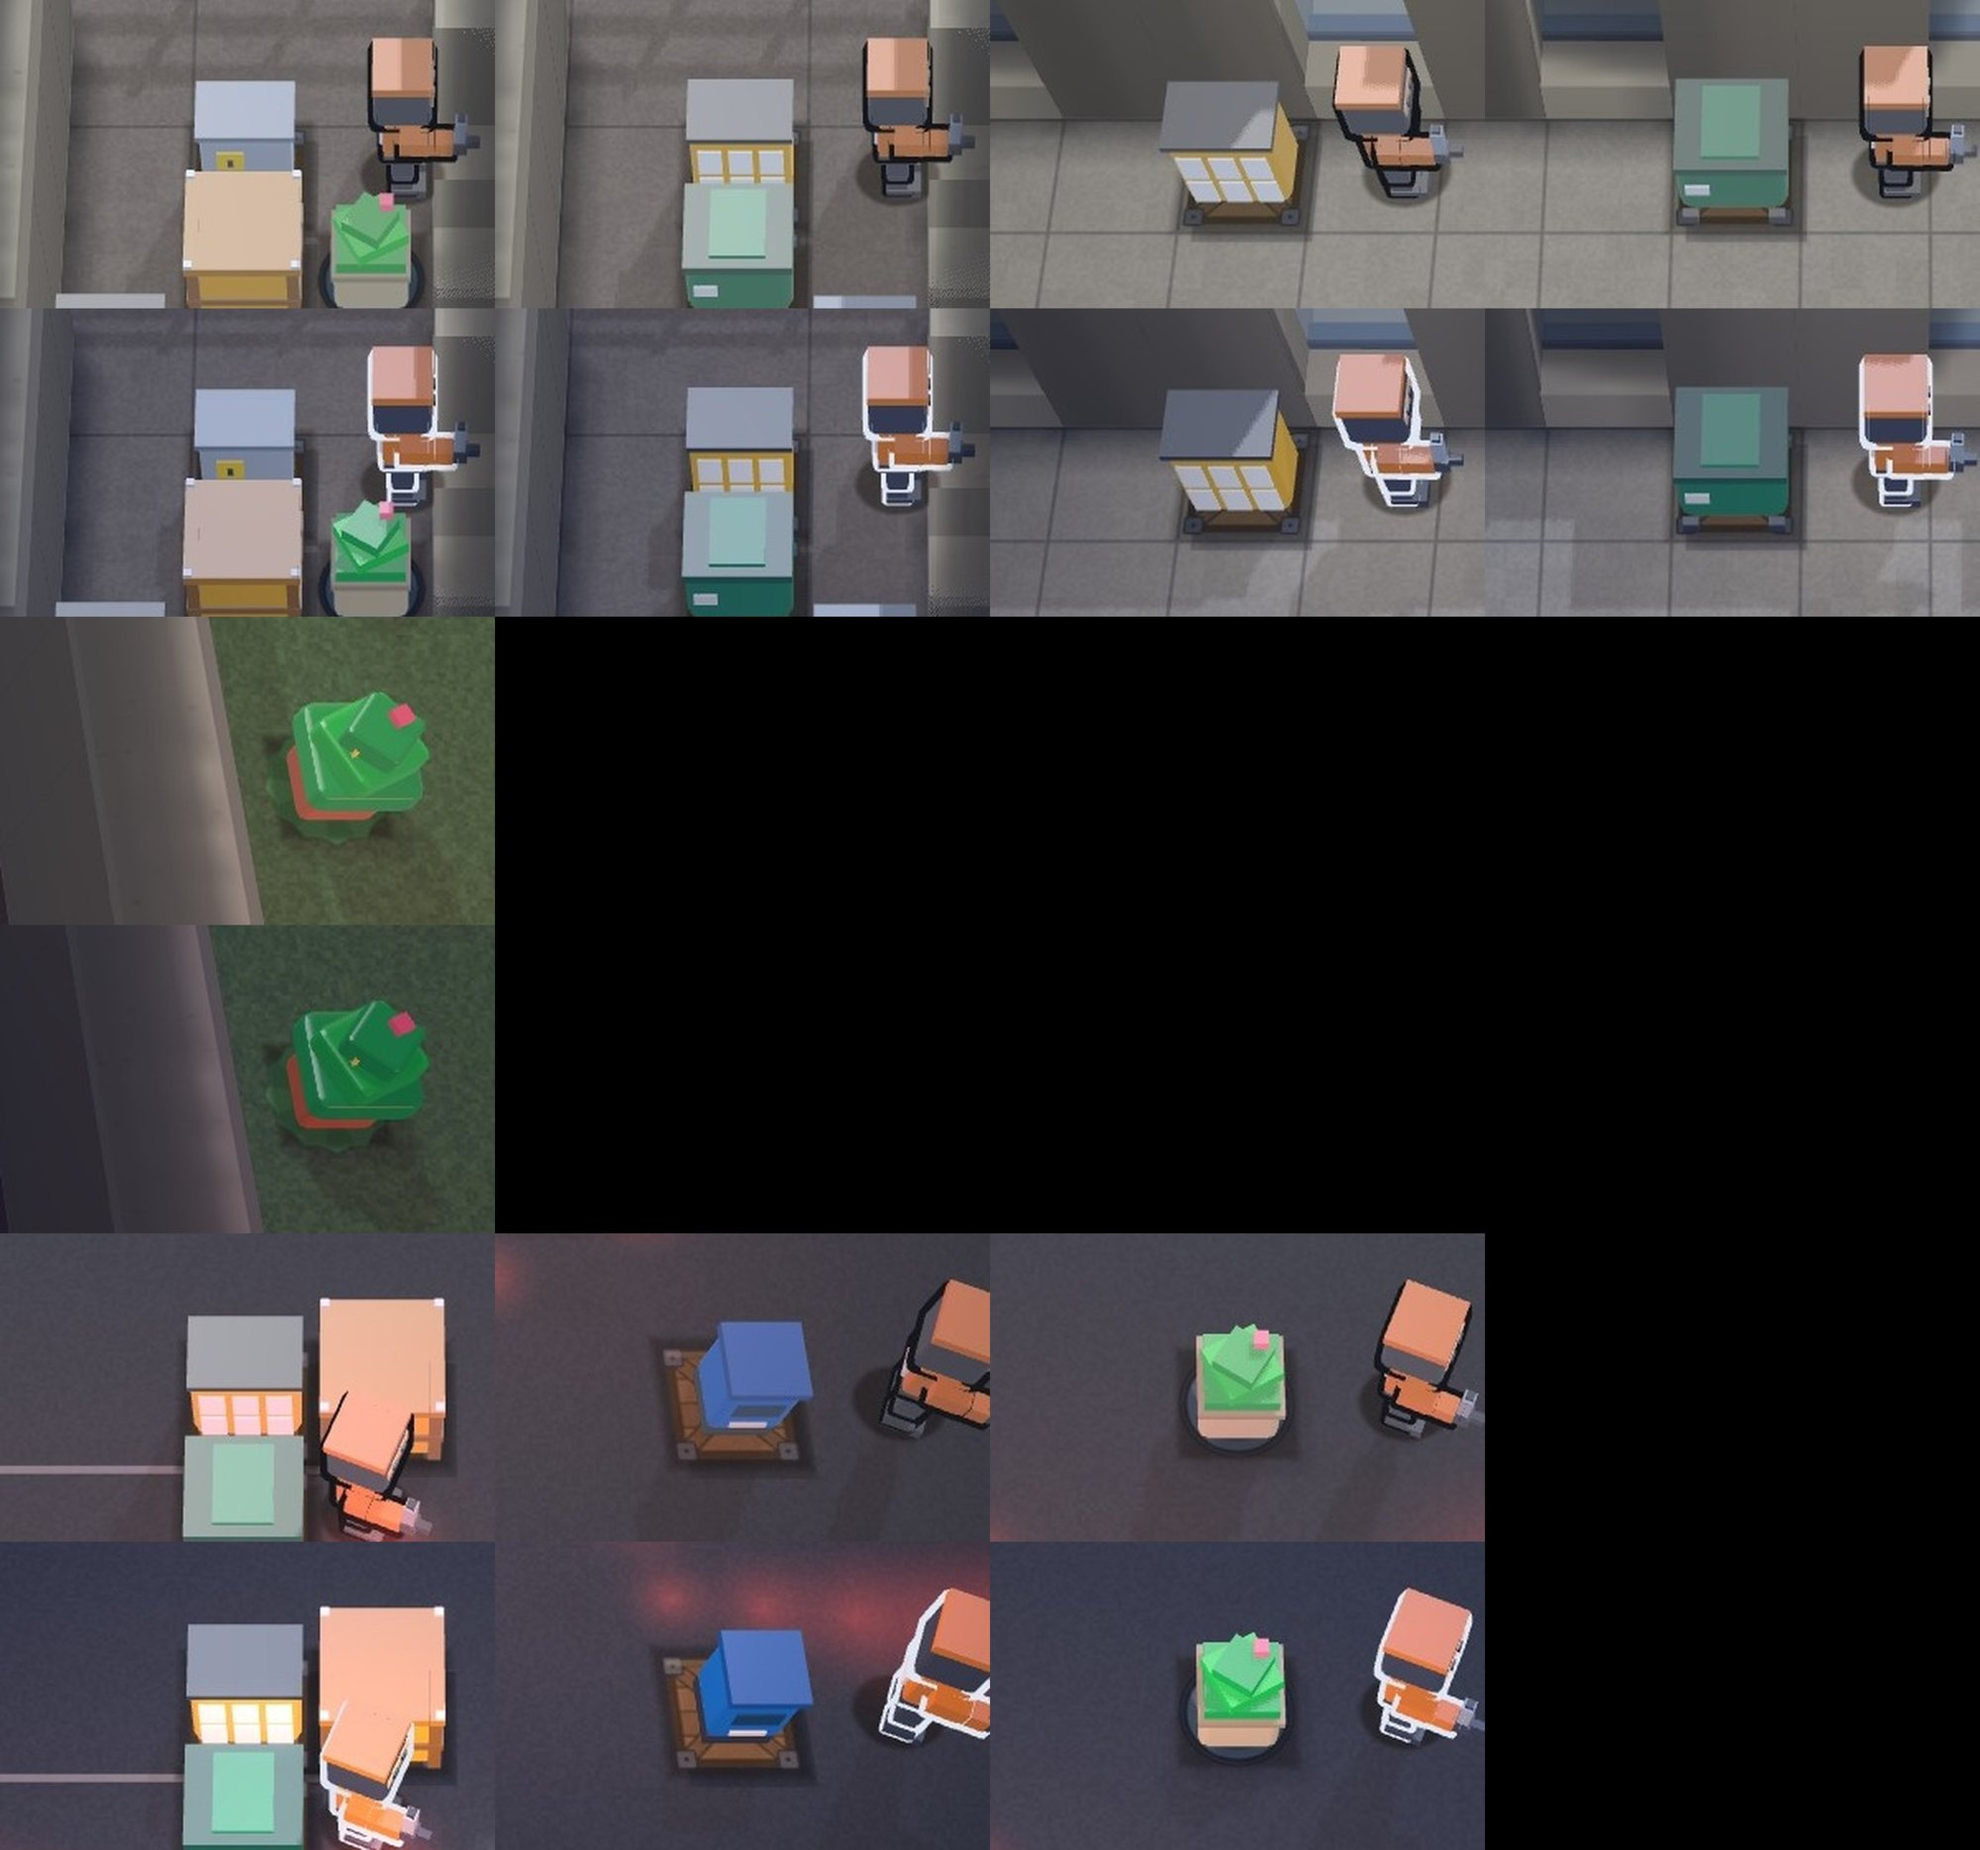
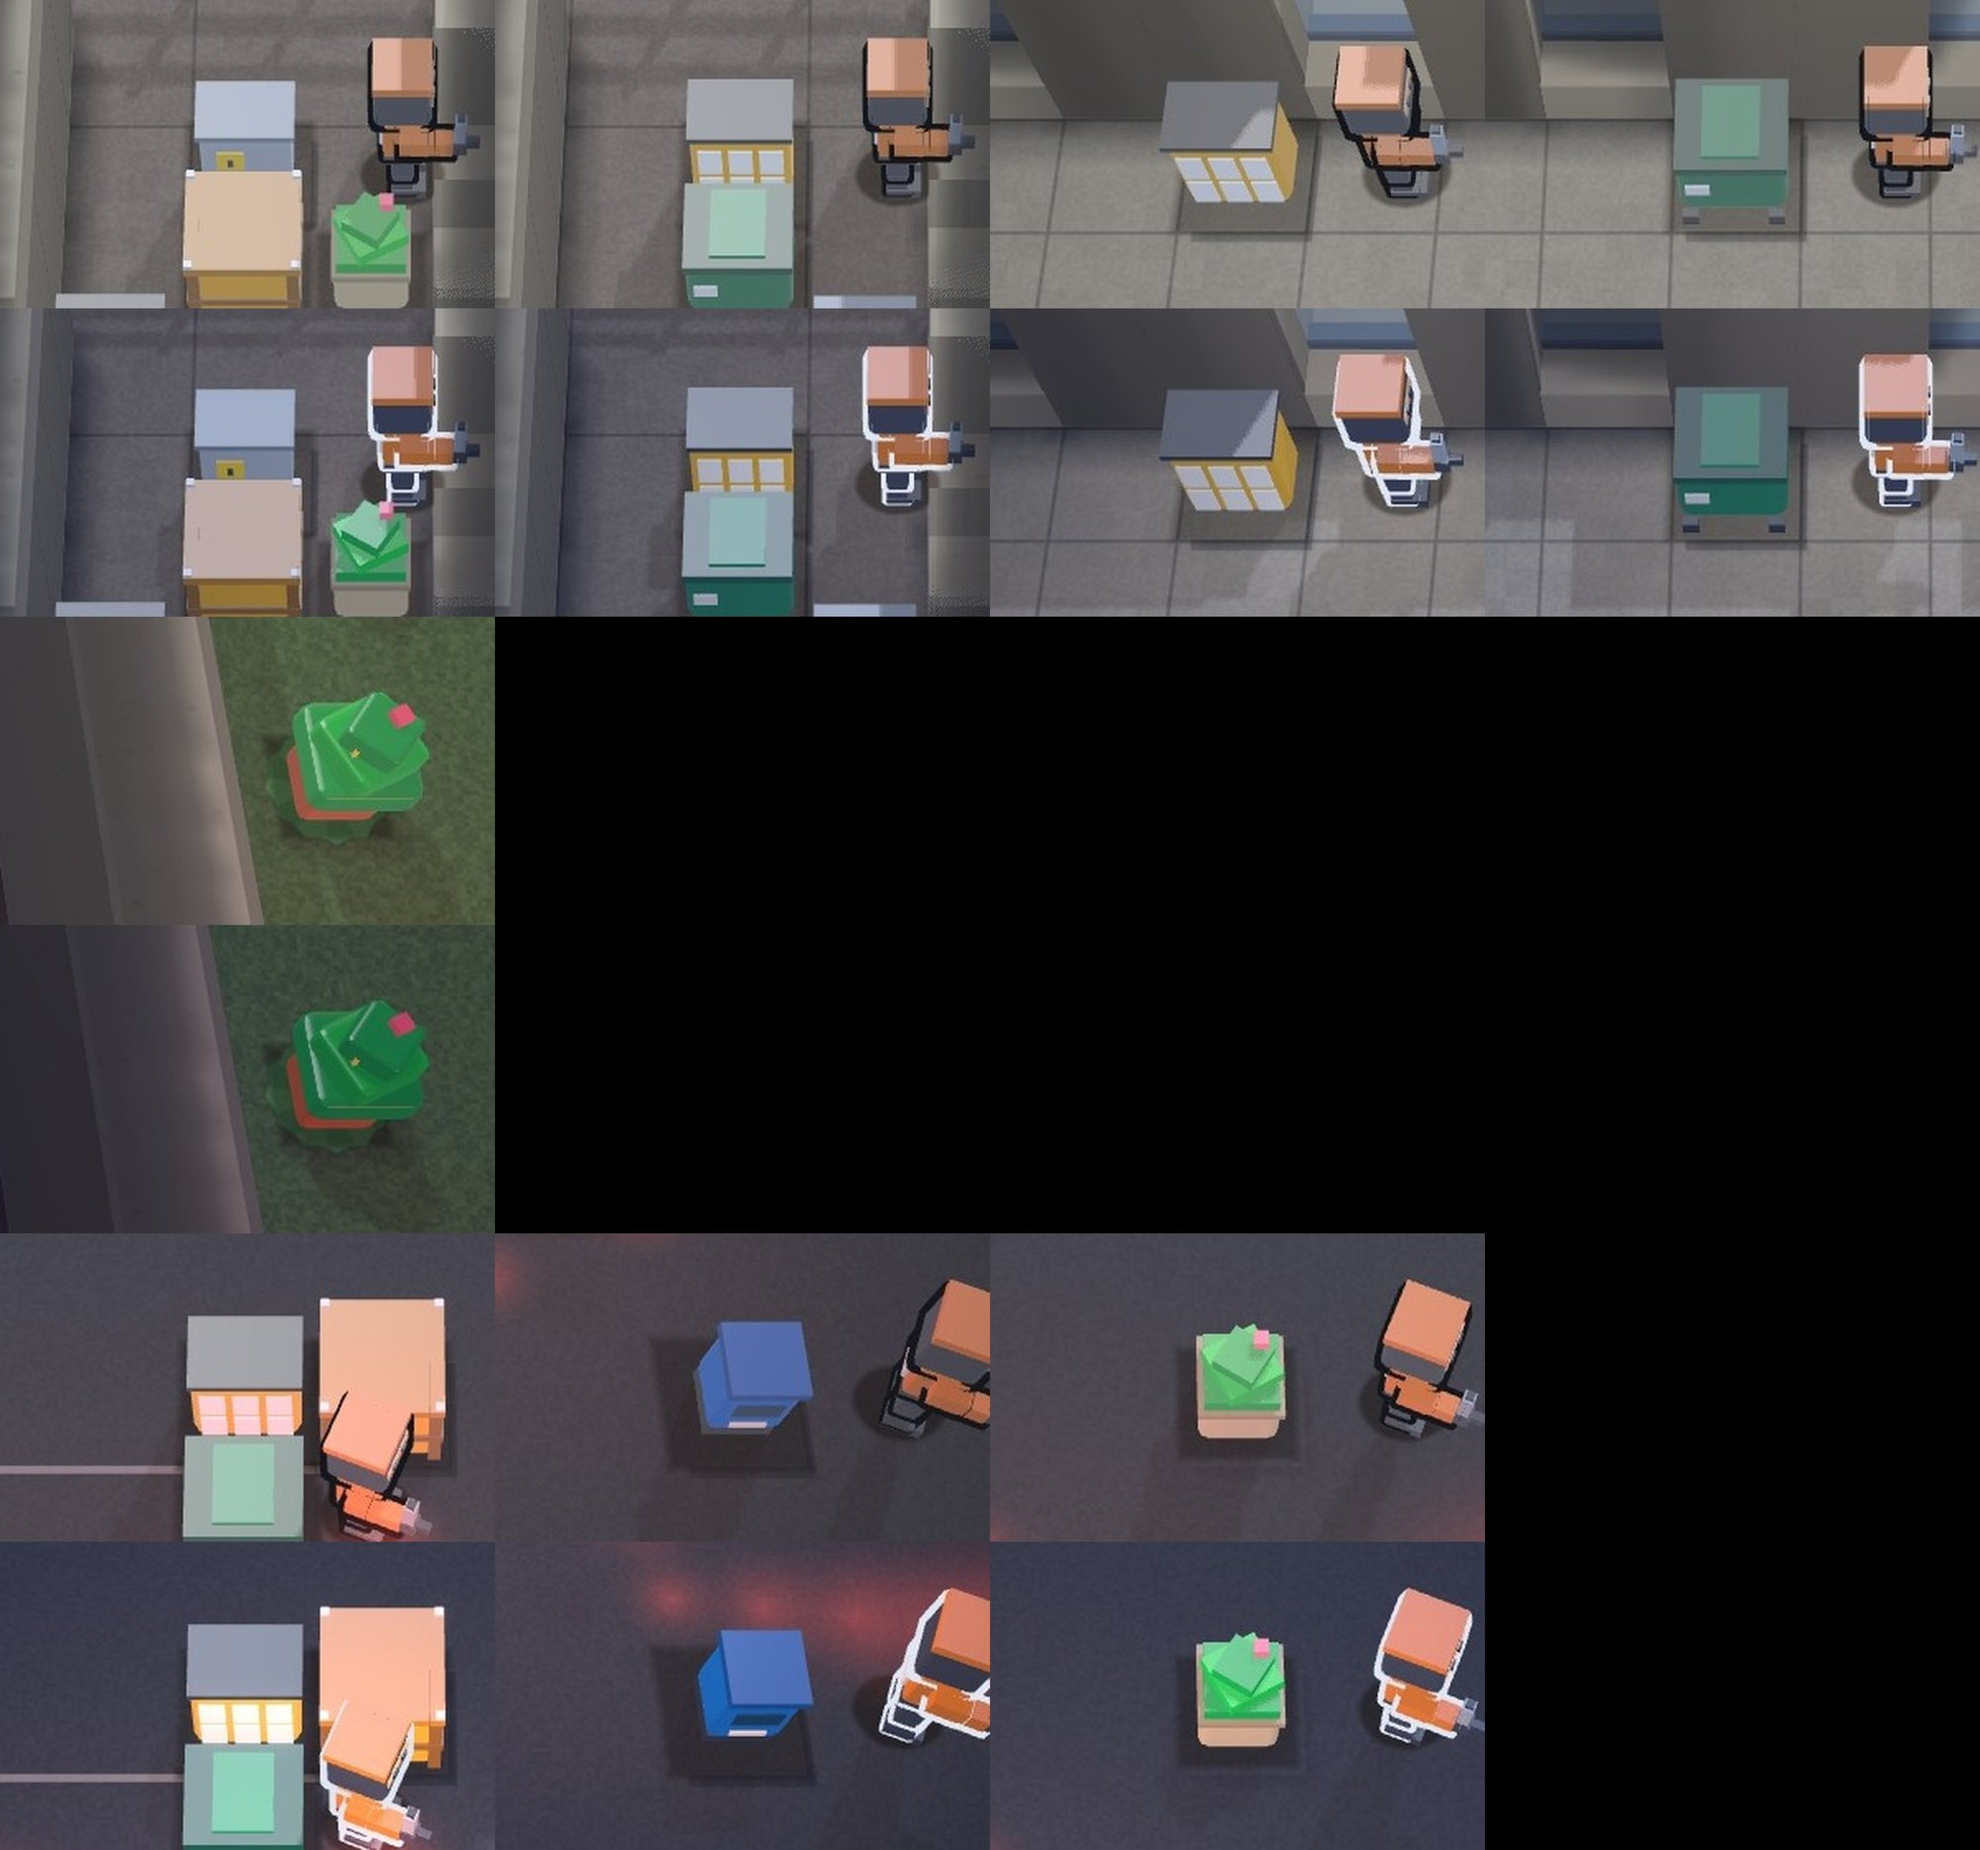
Straßenmöbel: alte Kiste und altes Fass aus der Objektebene auf der Bodenkopie übermalt (kein brauner Rahmen mehr) (#229)
Claude-Session: https://claude.ai/code/session_01M9qApXZL2az9absRxv6RKY

diff --git a/js/view3d.js b/js/view3d.js
@@ -282,7 +282,13 @@ export function mkView3d(X) {
   const box = new THREE.BoxGeometry(1, 1, 1);
 
   let ground = null, curLay = null, curSt = null, gridKey = '', rev = -1, stat = [], cells = {}, grl = new Set();
-  function refreshGround() { groundG.clearRect(0, 0, groundCv.width, groundCv.height); groundG.drawImage(X.st, 0, 0); groundG.drawImage(X.so, 0, 0); groundTex.needsUpdate = true; st.groundUp++ }
+  // Klotz-Stil (Ticket 229): Kisten und Faesser (k, q) zeichnet die Objektebene X.so der Karte als 2D-Bild auf den Boden. Die Strassenmoebel (kl-dinge-bank.js) ersetzen sie mit anderer Grundflaeche, darum schien die alte Kiste
+  // (brauner Rahmen mit Eckbeschlaegen) darunter durch. Auf der Bodenkopie wird die Kachel aus der statischen Ebene X.st neu gemalt (Boden ohne Objekt). 2D (X.st, X.so) bleibt unveraendert.
+  function hideStreetProps() {
+    if (!K || !K.on) return; const k = groundCv.width / (X.W * T), w = T * k;
+    for (let y = X.WY0; y < X.WY0 + X.H; y++) for (let x = X.WX0; x < X.WX0 + X.W; x++) { const c = X.cell(x, y); if (c !== 'k' && c !== 'q') continue; const sx = (x - X.WX0) * w, sy = (y - X.WY0) * w; groundG.clearRect(sx, sy, w, w); groundG.drawImage(X.st, sx, sy, w, w, sx, sy, w, w) }
+  }
+  function refreshGround() { groundG.clearRect(0, 0, groundCv.width, groundCv.height); groundG.drawImage(X.st, 0, 0); groundG.drawImage(X.so, 0, 0); hideStreetProps(); groundTex.needsUpdate = true; st.groundUp++ }
   function buildLay() {
     const WP = X.W * T, HP = X.H * T, ox = X.WX0 * T, oz = X.WY0 * T;
     curLay = X.LAY; curSt = X.st;

diff --git a/docs/plan-3d.md b/docs/plan-3d.md
@@ -249,7 +249,7 @@ Till hat entschieden (15. November 2026): Klötzchen mit Welt A (Figuren, Fahrze
 - **Lesbarkeit Dinge (Eilauftrag Abnahme, 15. November 2026).** Vitrine ohne Deckel (Glas nur als Rahmen), Juwelier mit Schmuck (Steine, Goldringe, Barren, leuchtend) auf Samtkissen, Museum mit hellerem Sockel und Exponat; Casino: Tresen `C` ist im Casino ein Spieltisch (grüner Filz, Holzrand, Chipstapel), 2x2-Blöcke von `C` sind die Standfläche der Automaten (rote Kästen mit leuchtendem Bildschirm), im Juwelier ein Schaukasten mit Glasrahmen (`kl-dinge-bank.js`). Chips begrenzt (höchstens 4 Stapel je Feld). Dreiecke Casino Abend, Erkundung, Grafik mittel: Seed 3 110.193, Seed 5 106.567 (Grenze 150.000). Vorher-nachher: `docs/bilder/kl-dinge-fix/vorher-nachher.jpg`.
 - **Tresor (Eilauftrag, 15. November 2026).** Offener Tresor: Türblatt etwa 100 Grad aufgeschwenkt an der Wand (Angel am oberen Ende der Öffnung), eingefahrene Bolzen an der freien Kante, Durchgang nur von zwei Pfosten gerahmt (vorher blieb das Blatt in der Öffnung und wirkte geschlossen). Der gelbe Balken am Boden war das warme Licht aus dem Tresorraum (V3CFG `kinds.vault` Gruppe `l`, im klassischen Plan durchsichtig mit 14 Prozent): als deckender leuchtender Klotz stach es grell heraus und hatte keine Spielbedeutung, entfernt. Geldbündel `bundle` rund doppelt so groß (26 x 16, Stapel aus drei mit Banderole und Siegel, oben leuchtender Streifen). Test `213-kl-tresor`. Bilder `docs/bilder/kl-tresor/vorher-nachher.jpg`.
 - **Szenenwechsel (Eilfund 15. November 2026).** Wechselte die Kartengröße in einer laufenden Ansicht (Menü-Hintergrund zum Auftrag, Auftrag zu Auftrag), blieben Boden, Spuren und Sichtmaske aus der alten Karte stehen (WebGL 2 legt Texturen mit fester Größe an, ein Bild anderer Größe landete in der alten Fläche), erst eine neue Ansicht (F7) baute alles richtig. `buildLay` legt die drei Texturen jetzt bei geänderter Größe neu an. Gilt für beide Stile. Test `206-kl-szenenwechsel` (Bild nach dem Wechsel gleich dem einer neuen Ansicht, vor dem Fix Abweichung 28 bis 62, nach dem Fix 0).
-- **Straßenmöbel (Ticket 229, Stufe 1, nur Optik).** `kl-dinge-bank.js`: Die Kacheln `k` und `q` draußen (mindestens 5 Zellen `o` im 5 mal 5 um die Kachel) bekommen je nach Ort andere Gestalten, gleiche Grundfläche und Höhe, drinnen bleiben Kiste und Fass. `q`: Mülltonne grau und grün, Pflanzkübel mit Busch, Streugutkiste, Poller-Gruppe. `k`: Müllcontainer, Zeitungsbox, Stromkasten, Paketstation, Holzkiste. Die Wahl hängt nur von der Kachelposition ab (allein stehende Kacheln nach Hash, Nachbarn gleicher Art nach dem Muster x plus 2 y, nie zwei gleiche nebeneinander, kein `Math.random`, Host und Client gleich). Je Gestalt höchstens ein großer Klotz mit Fase, der Rest Kleinteile (KC.small), höchstens 10 Teile. Dreiecke (Ansicht, Überfall): Transporter 33.571 auf 29.647, Bank 34.349 auf 33.593, Tankstelle 37.499 auf 36.467 (weniger als vorher, weil die achtkantigen Fässer zwei große Klötze brauchten). Test `230-kl-strassenmoebel`, Bilder `strassenmoebel-tag-nacht.jpg` (Transporter, Bank, Tankstelle, je Tag über Nacht, Werkzeug `tools/bilder-kloetzchen.js` Ablauf `moebel`). Stufe 2 (Hydrant, Laterne, Poller als Deko-Ebene der Karte) ist ein eigenes Ticket.
+- **Straßenmöbel (Ticket 229, Stufe 1, nur Optik).** `kl-dinge-bank.js`: Die Kacheln `k` und `q` draußen (mindestens 5 Zellen `o` im 5 mal 5 um die Kachel) bekommen je nach Ort andere Gestalten, gleiche Grundfläche und Höhe, drinnen bleiben Kiste und Fass. `q`: Mülltonne grau und grün, Pflanzkübel mit Busch, Streugutkiste, Poller-Gruppe. `k`: Müllcontainer, Zeitungsbox, Stromkasten, Paketstation, Holzkiste. Die Wahl hängt nur von der Kachelposition ab (allein stehende Kacheln nach Hash, Nachbarn gleicher Art nach dem Muster x plus 2 y, nie zwei gleiche nebeneinander, kein `Math.random`, Host und Client gleich). Je Gestalt höchstens ein großer Klotz mit Fase, der Rest Kleinteile (KC.small), höchstens 10 Teile. Dreiecke (Ansicht, Überfall): Transporter 33.571 auf 29.647, Bank 34.349 auf 33.593, Tankstelle 37.499 auf 36.467 (weniger als vorher, weil die achtkantigen Fässer zwei große Klötze brauchten). Test `230-kl-strassenmoebel`, Bilder `strassenmoebel-tag-nacht.jpg` (Transporter, Bank, Tankstelle, je Tag über Nacht, Werkzeug `tools/bilder-kloetzchen.js` Ablauf `moebel`). Die alte Kiste und das alte Fass, die die Objektebene `X.so` als 2D-Bild auf den Boden malt, schienen unter den Gestalten mit anderer Grundfläche durch (brauner Rahmen mit Eckbeschlägen): `hideStreetProps` in `view3d.js` (`refreshGround`) malt die Kachel auf der Bodenkopie aus der statischen Ebene `X.st` neu, nur im Klötzchen-Stil, 2D bleibt unverändert. Stufe 2 (Hydrant, Laterne, Poller als Deko-Ebene der Karte) ist ein eigenes Ticket.
 - **Grenzen.** Silhouetten hinter Wänden bleiben flache Sprites, Schild opak, Szenario-Teile ohne Bauer klassisch, Möbel nur der Bank.
 
 ## 3. Figuren
